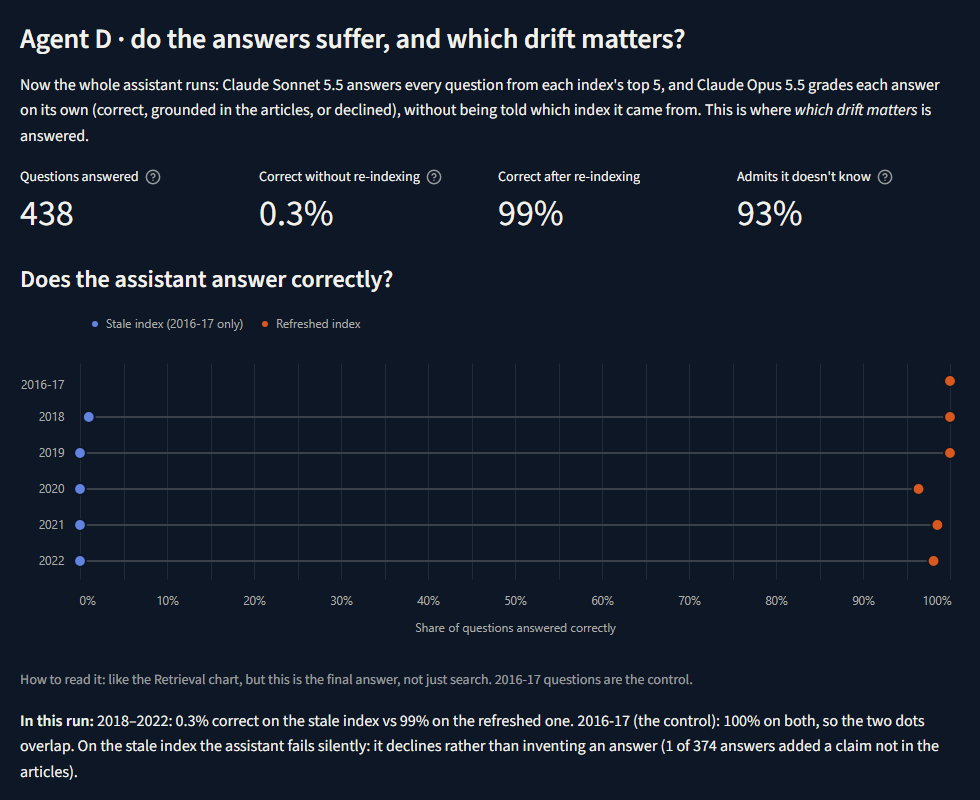
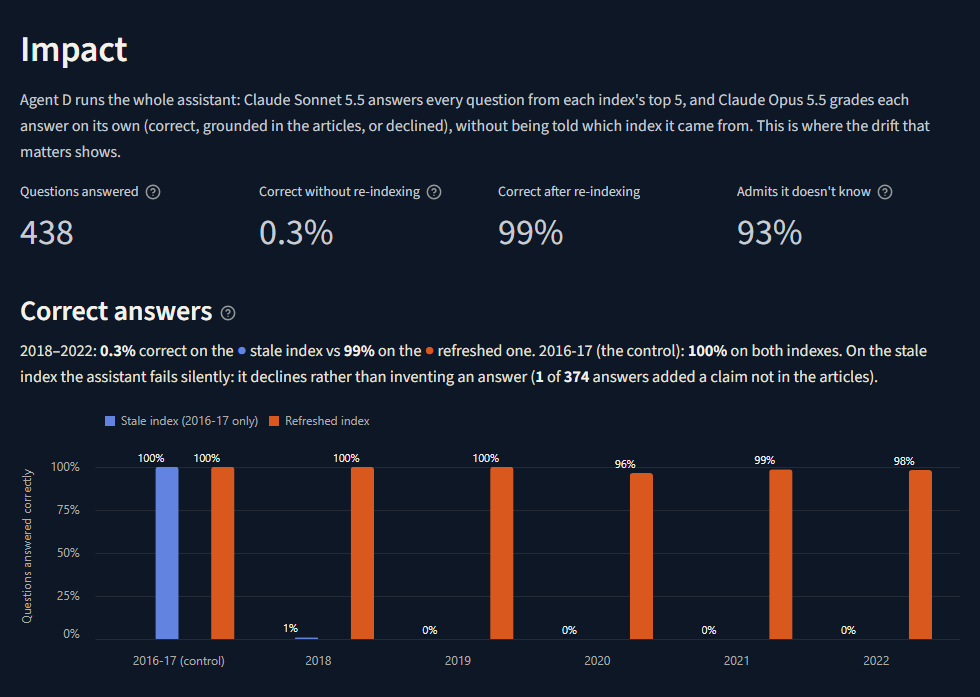
README and architecture describe the page layout; GIF and Impact screenshot re-recorded; review round 2 recorded

diff --git a/README.md b/README.md
@@ -128,16 +128,20 @@ is recomputed and no model is called. With an NVIDIA GPU, install
 for faster embedding.
 
 <details>
-<summary><b>What each dashboard tab shows</b></summary>
+<summary><b>What each dashboard page shows</b></summary>
 
-| Tab | What it shows |
+Pick a page in the left bar and a run at the top right; the top bar lists what
+produced the run (archive, years, models, cost). Each section states this run's
+finding under its heading; the ⓘ icon explains how to read the chart.
+
+| Page | What it shows |
 |---|---|
-| Overview | Drift per year, answers stale vs refreshed, the top recommendation |
-| Data monitoring | Agent A: what arrived each year, data quality, new sections, the query stream |
-| Drift | Agent B: drift by section and year, emerging words and topics, words that changed meaning, query drift |
-| Retrieval | Agent C: does the top 5 contain an answer, stale vs refreshed; how rankings changed |
-| Impact | Agent D: correct answers stale vs refreshed; drift score vs loss per section; the Wikipedia outdated-answer test |
-| Recommendations | Agent E: each action with its explanation and evidence, and the actions ruled out |
+| Overview | The main findings, headline numbers, drift per year, the most drifted groups |
+| Data Monitoring | Agent A: new sections and new words per year, section shares over time, data quality, the question stream |
+| Drift | Agent B: drift by section and year, share of sections flagged, one group in detail (words before and after), topics that grew, words that changed meaning, question drift |
+| Retrieval | Agent C: answer found in the top 5, stale vs refreshed, with examples; old questions after re-indexing |
+| Impact | Agent D: correct answers stale vs refreshed; drift score against lost answers; examples; the Wikipedia edited-documents test |
+| Recommendations | Agent E: each action with its explanation, scope and evidence, and the actions ruled out |
 
 </details>
 

diff --git a/docs/dashboard-review.md b/docs/dashboard-review.md
@@ -201,3 +201,26 @@ baseline, unaffected).
 - [x] **"Checked, not recommended" reads awkwardly:** "(not needed): Not
       needed: …" repeats, and evidence sentences run together. One clean
       sentence each, with the deciding number.
+
+## Round 2: the author's final comments (2026-11-09)
+
+- [x] Title and page names in title case ("RAG Drift Monitor", "Data Monitoring").
+- [x] Pages in the left bar; run facts in a top bar of chips; the run picker
+      at the top right, level with the title.
+- [x] Less text: "how to read" moved into each heading's ⓘ icon; this run's
+      finding stated under the heading; numbers bold white; "stale" and
+      "refreshed" carry their chart colour as a dot.
+- [x] Lists of article titles as bullets (stale and refreshed side by side).
+- [x] Subtitle: "Tracks how a document archive drifts over time, and whether
+      that drift breaks the answers of a RAG (retrieval-augmented generation)
+      assistant." Archive and years moved to the top bar.
+- [x] Question headings replaced by short headings plus a statement.
+- [x] Captions rewritten as full sentences, larger and lighter.
+- [x] Hover (ⓘ) details on headings, tiles and table columns.
+- [x] Live charts instead of images (topics, words that changed meaning,
+      method check).
+- [x] Section mix as labelled lines per section (validated palette, new
+      sections dashed) instead of a squeezed stacked bar.
+- [x] Stale vs refreshed as grouped bars (Retrieval, Impact).
+- [x] Drift-vs-loss scatter zoomed to the data.
+- [x] Evidence grouped by source, without double colons.

diff --git a/docs/architecture.md b/docs/architecture.md
@@ -150,11 +150,13 @@ Every dataset is mapped onto one record shape (`doc_id, date, category,
 title, text`) in `driftmon/data/records.py`, so switching datasets is a config change.
 
 **Dashboard (Q16).** `app/streamlit_app.py` only reads saved runs, so a
-demo cannot fail on a live LLM call. Tabs: Overview, Data monitoring (A),
-Drift (B), Retrieval (C), Impact (D: answers stale vs refreshed, drift score
-vs loss per section, the Wikipedia outdated-answer test) and Recommendations
-(E: each action with its explanation and evidence, and the actions ruled
-out). It reads `runs/` and falls back to the committed `demo/runs/`, so it
+demo cannot fail on a live LLM call. Pages (left bar): Overview, Data
+Monitoring (A), Drift (B), Retrieval (C), Impact (D: answers stale vs
+refreshed, drift score vs loss per section, the Wikipedia outdated-answer
+test) and Recommendations (E: each action with its explanation and evidence,
+and the actions ruled out). Charts are live Altair charts
+(`driftmon/dashboard/live.py`); every "what this run shows" sentence is
+built from the run's numbers (`driftmon/dashboard/story.py`). It reads `runs/` and falls back to the committed `demo/runs/`, so it
 works straight after cloning, without an API key, a GPU or a rerun.
 
 **Storage (no database server).** Vector search uses FAISS exact
